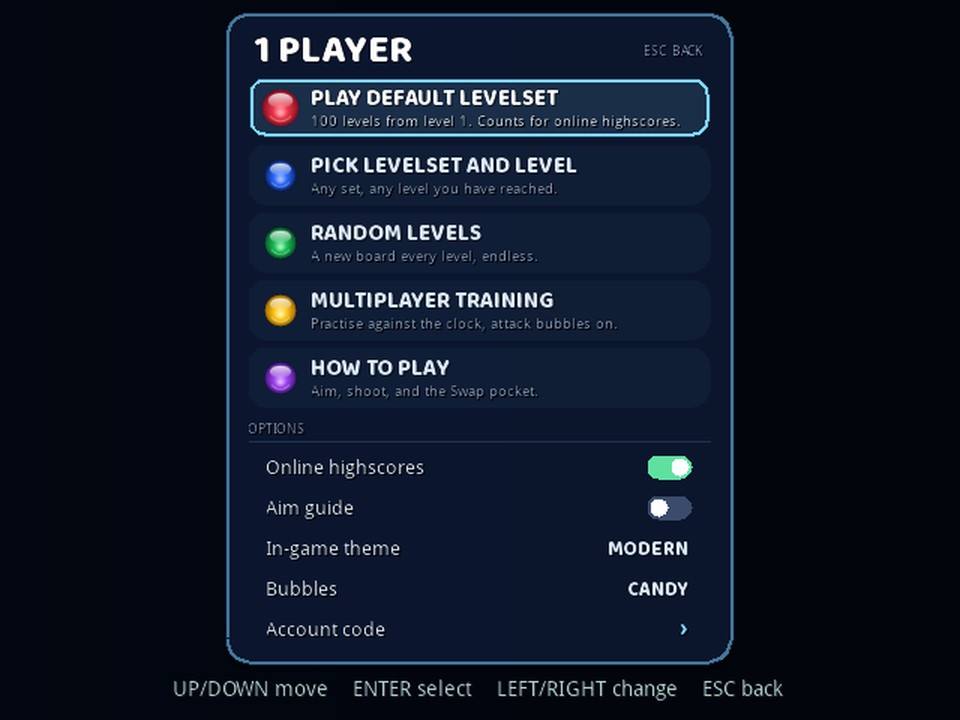
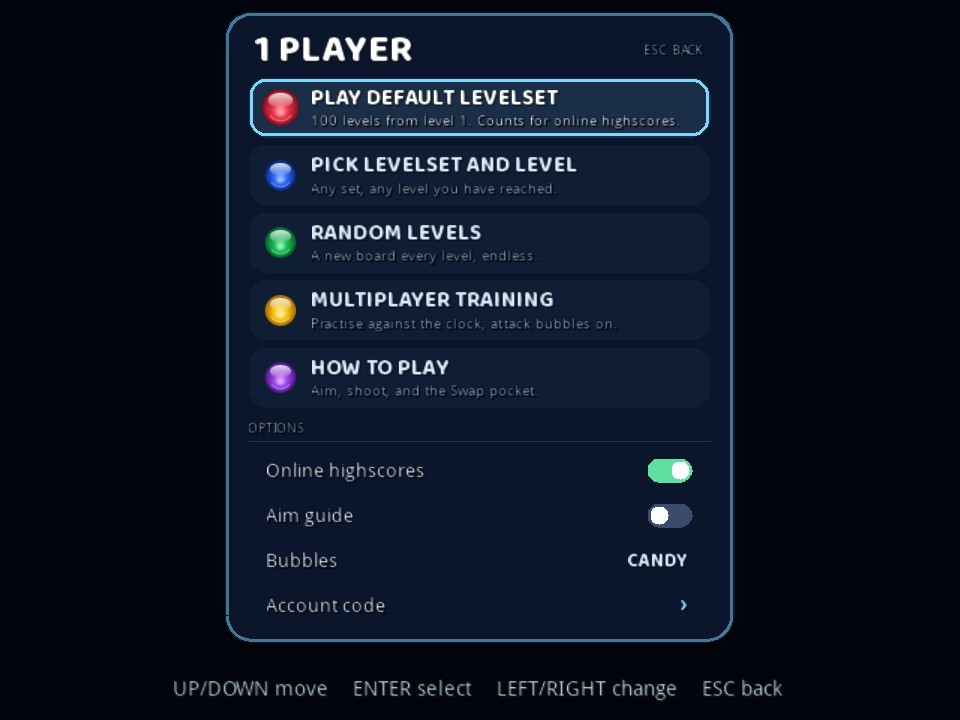
Screenshots and docs: the classic game room, the 9-row 1-player menu
The online screens went back to the classic look in every menu style
(#236) and the In-game theme row is gone (#240), so three images showed
screens the game no longer has:
- Play screenshot 4 and the README/site game room: retaken as the classic
  room over the world map (docs/screenshots/game-room.jpg, replacing
  game-room-modern.jpg; the unused 800x600 game-room.png goes too).
- README's 1-player menu: retaken without the In-game theme row.
Both rendered at 960x720 with sharp text. README, the site page, its asset
list and the store-assets notes now describe one game screen and the
online/settings screens staying classic.

diff --git a/tools/build-site.py b/tools/build-site.py
@@ -74,7 +74,7 @@ PAGES = [
 ASSETS = [
     *[(os.path.join(ROOT, "docs", "screenshots", name), os.path.join("screenshots", name))
       for name in ("modern-gameplay.jpg", "title-menu.jpg", "how-to-play.jpg",
-                   "two-player-win.jpg", "game-room-modern.jpg", "round-stats.png")],
+                   "two-player-win.jpg", "game-room.jpg", "round-stats.png")],
     # Google's official "Get it on Google Play" badge, served from here rather
     # than hotlinked so opening the page makes no request to Google.
     (os.path.join(SITE, "img", "google-play-badge.png"),

diff --git a/README.md b/README.md
@@ -12,7 +12,7 @@ The original was written in Perl; this is a full rewrite in C++. Core gameplay a
 **▶ [Play in your browser](https://dchau360.itch.io/frozenbubble2)** (no install, works on phones) · **[Download](#download)** for Linux, macOS, Windows, Android · **[Join the Discord](https://discord.gg/uE4dq8fqGW)** to find opponents. Online rooms hold up to 20 players.
 
 <p align="center">
-  <a href="docs/media/frozen-bubble-promo.mp4"><img src="docs/media/promo-preview.gif" width="480" alt="A clip of a 1-player game in the modern theme: a shot drops ten bubbles"></a><br>
+  <a href="docs/media/frozen-bubble-promo.mp4"><img src="docs/media/promo-preview.gif" width="480" alt="A clip of a 1-player game: a shot drops ten bubbles"></a><br>
   <sub><a href="docs/media/frozen-bubble-promo.mp4">▶ Watch the 1-minute trailer</a>: 1-player, a 4-player battle, and a 2-player round to the win</sub>
 </p>
 
@@ -60,14 +60,14 @@ Every mode plays the same whether you're local or online, and the host can adjus
   <img src="docs/screenshots/how-to-play.jpg" alt="The How to play page: the launcher, next bubble and Swap pocket labelled with their controls, and a swap in three steps" width="400">
 </p>
 
-**Modern in-game theme** (on by default; switch it under **In-game theme** in the 1-player menu). In a 1-player game: a score panel down the left (level, score counting up, shots, time), cards for level cleared, game over and pause, the next level dropping in row by row, and an "N DROPPED!" when a shot cuts bubbles loose. The background, penguin, launcher, sounds and scoring stay as they were; **Original** brings back the classic look. The glossy candy bubbles are a separate switch, **Bubbles** (CANDY / CLASSIC, also on by default), so either set goes with either look; they apply in every mode, multiplayer included.
+**The 1-player game screen.** A score panel down the left (level, score counting up, shots, time), cards for level cleared, game over and pause, the next level dropping in row by row, and an "N DROPPED!" when a shot cuts bubbles loose. The background, penguin, launcher, sounds and scoring stay as they were. The glossy candy bubbles are a switch, **Bubbles** in the 1-player menu (CANDY / CLASSIC, CANDY by default), and apply in every mode, multiplayer included.
 
 <p align="center">
-  <img src="docs/screenshots/modern-gameplay.jpg" alt="A 1-player game in the modern theme: score panel with level, score, shots and time, a +170 popup and 3 DROPPED!" width="400">
-  <img src="docs/screenshots/level-cleared.jpg" alt="The modern theme's level-cleared card: time 33s, time bonus +2,648, score 3,188" width="400">
+  <img src="docs/screenshots/modern-gameplay.jpg" alt="A 1-player game: score panel with level, score, shots and time, a +170 popup and 3 DROPPED!" width="400">
+  <img src="docs/screenshots/level-cleared.jpg" alt="The level-cleared card: time 33s, time bonus +2,648, score 3,188" width="400">
 </p>
 
-**Modern menus.** The menus match the modern theme too: dark rounded cards, with a candy bubble on the selected row. The 1-player menu explains each mode in a line and has switches for its settings, and the online lobby, game room, Set Teams and Settings screens are cards as well. The original looks are still there: pick another **STYLE** on the title screen.
+**Modern menus.** The title screen and the 1-player menu match the game screen: dark rounded cards, with a candy bubble on the selected row, and the 1-player menu explains each mode in a line and has switches for its settings. The online screens (server lists, lobby, game room, Set Teams) and Controls & Settings keep their classic look in every style. The original title screen is still there: pick another **STYLE** on the title screen.
 
 <p align="center">
   <img src="docs/screenshots/title-menu.jpg" alt="The title screen in the Modern menu style" width="400">
@@ -79,7 +79,7 @@ Every mode plays the same whether you're local or online, and the host can adjus
 **Attack bubbles** is a three-way setting, host-controlled in the room and per-player in local multiplayer: **ON** sends every malus you earn straight at your opponents, **OFF** turns attacks off entirely, and **Blockable** has the malus you earn pay down whatever is still queued against you first, sending only the surplus — it can't go negative, so blocking more than you owe just empties your queue rather than banking credit. A HELP button next to Bot skill (or **F1**/gamepad **Y** anytime) opens a full settings guide covering this and everything else on the panel, including how malus targeting differs once a room has 6 or more players alive.
 
 <p align="center">
-  <img src="docs/screenshots/game-room-modern.jpg" alt="Game room in the Modern menu style: match rules, each player's settings, the players and chat" width="480">
+  <img src="docs/screenshots/game-room.jpg" alt="An online game room over the world map: match rules, each player's settings, the players and chat" width="480">
   <img src="docs/screenshots/net-5player.png" alt="Live 5-player network game: one full board in the centre, four opponent boards in the corners" width="480">
 </p>
 

diff --git a/docs/store-assets/README.md b/docs/store-assets/README.md
@@ -15,14 +15,18 @@
   dumps, so regenerate them from there rather than from device captures.
   Landscape is fine: Play only needs 2–8 images, 320–3840px a side, no
   more extreme than 2:1. Replaced 2026-10-05 (v2.4.141); the set before
-  that predated the modern theme and menus.
-  1. `gameplay`: a 1-player level in the modern theme, mid-drop.
+  that predated the modern theme and menus. `game-room` was retaken
+  2026-10-07 (v2.4.147), when the online screens went back to the classic
+  look in every menu style: rendered at 960×720 with sharp text by
+  `tests/net_menus_classic_test.cpp`'s room case (window 960×720, logical
+  presentation 640×480, `SetTextRenderScale(1.5f)`).
+  1. `gameplay`: a 1-player level, mid-drop.
   2. `how-to-play`: the How to play page (loaded, next and pocket bubbles).
   3. `two-player-win`: a 2-player round won, its stats above.
-  4. `game-room`: an online game room in the modern menu style.
+  4. `game-room`: an online game room, over the world map.
   5. `round-stats`: the post-round stats table with team totals.
   6. `level-cleared`: the level-cleared card with the time bonus.
-  7. `local-4player`: four players on one machine, original theme, each
+  7. `local-4player`: four players on one machine, each
      with a Swap pocket (re-captured 2026-10-06 from a piloted game).
   8. `title-menu`: the title screen.
 

diff --git a/site/index.md b/site/index.md
@@ -12,7 +12,7 @@ Android, and in the browser**.
 [Source](https://github.com/dchau360/frozen-bubble-sdl3) ·
 [Privacy policy](https://dchau360.github.io/frozen-bubble-sdl3/privacy/)
 
-![A 1-player game in the modern theme: score panel, shot count and time, and a 3 DROPPED! popup](screenshots/modern-gameplay.jpg)
+![A 1-player game: score panel, shot count and time, and a 3 DROPPED! popup](screenshots/modern-gameplay.jpg)
 
 ## Download
 
@@ -59,7 +59,7 @@ To play on an iPhone, use the browser build.
 
 ![The end of a two-player round: You Win! with the round's stats along the top](screenshots/two-player-win.jpg)
 
-![An online game room: match rules, players, bots and chat](screenshots/game-room-modern.jpg)
+![An online game room: match rules, players, bots and chat](screenshots/game-room.jpg)
 
 ![The post-round statistics table in a five-player game](screenshots/round-stats.png)
 
